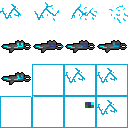
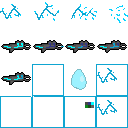
Make enemies be more scared (sweat particles)

Changed region(s): [[0.5, 0.5, 0.75, 0.75]]

diff --git a/Scripts/Particles/ParticleEmitter.cs b/Scripts/Particles/ParticleEmitter.cs
@@ -8,9 +8,11 @@ namespace Monogame_Cross_Platform.Scripts.Particles
 {
     internal class ParticleEmitter
     {
-        Vector2 position;
-        float particleVelocity;
+        public Vector2 position { get; set; }
+        public float particlexVelocity;
+        public float particleyVelocity;
         float particleAngle;
+        internal float drawRotation;
         float particleScale;
         float lifetime;
         ushort textureIndex;
@@ -18,52 +20,70 @@ namespace Monogame_Cross_Platform.Scripts.Particles
         double lastTimeShot;
         Random random;
         double expiryTime;
-        private float xAcceleration;
-        private float yAcceleration;
+        public float xAcceleration;
+        public float yAcceleration;
+        bool rotatesParticle;
 
+        public bool isEnabled = false;
         float spread;
 
         public void Update()
         {
-            if (!(Game1.gameTime.TotalGameTime.TotalSeconds > expiryTime))
+            if (!(Game1.gameTime.TotalGameTime.TotalSeconds > expiryTime) && isEnabled)
             {
                 int timesToFire = (int)((Game1.gameTime.TotalGameTime.TotalSeconds - lastTimeShot) / frequency);
                 if (timesToFire > 0)
                 {
                     for (int i = 0; i < timesToFire; i++)
                     {
-                        float angle = particleAngle + (random.NextSingle() - 0.5f) * spread / 57.295f; //converts radians to degrees and halves
-                        Game1.activeParticles.Add(new Particle(position, particleVelocity, angle, particleScale, textureIndex, lifetime, xAcceleration, yAcceleration));
+                        float randomVal = (random.NextSingle() - 0.5f) * spread / 57.295f;
+                        float angle = particleAngle + randomVal; //converts radians to degrees and halves
+                        float rngXVelocity = particlexVelocity + randomVal * 10;
+                        float rngYVelocity = particleyVelocity + randomVal * 10;
+                        Game1.activeParticles.Add(new Particle(position, rngXVelocity, rngYVelocity, angle, particleScale, textureIndex, lifetime, xAcceleration, yAcceleration, drawRotation, rotatesParticle));
                     }
                     lastTimeShot = Game1.gameTime.TotalGameTime.TotalSeconds;
                 }
             }
-            else
+            else if (Game1.gameTime.TotalGameTime.TotalSeconds > expiryTime)
             {
                 Destroy();
             }
-            
+            else
+                lastTimeShot = Game1.gameTime.TotalGameTime.TotalSeconds;
+
         }
         public void Destroy()
         {
             Game1.activeParticleEmitters.Remove(this);
         }
 
-        public ParticleEmitter(Vector2 position, float velocity, float angle, float scale, ushort textureIndex, float lifetime, float frequency, float emitterDuration, float spread, float xAccel, float yAccel) 
+        public ParticleEmitter(Vector2 position, float velocity, float angle, float scale, ushort textureIndex, float lifetime, float frequency, float emitterDuration, float spread, float xAccel, float yAccel, float drawRotation, bool rotatesParticle) 
         { 
             this.position = position;
-            particleVelocity = velocity;
+            particlexVelocity = (float)Math.Cos(angle) * velocity;
+            particleyVelocity = (float)Math.Sin(angle) * velocity;
             particleAngle = angle;
             particleScale = scale;
             this.lifetime = lifetime;
             this.textureIndex = textureIndex;
             this.frequency = frequency;
-            expiryTime = Game1.gameTime.TotalGameTime.TotalSeconds + emitterDuration;
-            lastTimeShot = Game1.gameTime.TotalGameTime.TotalSeconds;
+            this.drawRotation = drawRotation;
+            this.rotatesParticle = rotatesParticle;
+            if (Game1.gameTime != null)
+            {
+                expiryTime = Game1.gameTime.TotalGameTime.TotalSeconds + emitterDuration;
+                lastTimeShot = Game1.gameTime.TotalGameTime.TotalSeconds;
+            }
+            else
+                expiryTime = emitterDuration;
+                
             random = new Random();
             this.spread = spread;
             yAcceleration = yAccel;
             xAcceleration = xAccel;
+            if (!Game1.activeParticleEmitters.Contains(this))
+                Game1.activeParticleEmitters.Add(this);
         }
     }
 }

diff --git a/Scripts/GameObjects/Entities/Entity.cs b/Scripts/GameObjects/Entities/Entity.cs
@@ -23,14 +23,15 @@ namespace Monogame_Cross_Platform.Scripts.GameObjects.Entities
 
         internal float movingSpeed;
         internal bool isMoving = false;
+        internal bool isScared = false;
 
         internal EntityMovement entityMovement;
         internal Hitbox hitBox;
         internal Weapon activeWeapon;
         internal EntityMovement.AIType aiType;
 
+        internal ParticleEmitter sweatParticles;
 
-        
         public Entity(float entitySpeed, Vector2 startingTile, ushort animationIndex, Hitbox hitBox, EntityMovement.AIType aiType, int health) : base(animationIndex, startingTile)
         {
             this.entitySpeed = entitySpeed;
@@ -39,8 +40,9 @@ namespace Monogame_Cross_Platform.Scripts.GameObjects.Entities
             this.aiType = aiType;
             this.health = health;
             maxHealth = health;
+            sweatParticles = new ParticleEmitter(Vector2.One, 40, 180, 0.5f, 58, 0.4f, 0.2f, float.PositiveInfinity, 90, 0, 80, 0, true);
         }
-        public void Destroy()
+        public override void Destroy()
         {
             isEnabled = false;
             for (int x = -1; x < 2; x++)
@@ -51,6 +53,7 @@ namespace Monogame_Cross_Platform.Scripts.GameObjects.Entities
             if (activeWeapon != null)
                 activeWeapon.Drop(position);
             Game1.currentGameObjects.Remove(this);
+            sweatParticles.Destroy();
         }
         public virtual void Update(Player.Player player)
         {
@@ -106,7 +109,7 @@ namespace Monogame_Cross_Platform.Scripts.GameObjects.Entities
         {
             if (!isInComboMode)
             {
-                Vector2 entityNewPos = entityMovement.GetNormalPathfindingMovement(activeWeapon.attackRange, position, entitySpeed, aiType, playerToFollow);
+                (isScared, Vector2 entityNewPos) = entityMovement.GetNormalPathfindingMovement(activeWeapon.attackRange, position, entitySpeed, aiType, playerToFollow);
                 hitBox.UpdatePosition(entityNewPos.X, entityNewPos.Y);
 
                 activeWeapon.Update(playerToFollow.position, position);
@@ -117,6 +120,15 @@ namespace Monogame_Cross_Platform.Scripts.GameObjects.Entities
                 else
                     isFlipped = false;
                 
+                sweatParticles.position = position;
+                sweatParticles.particlexVelocity = (entityNewPos - position).X * (float)Game1.gameTime.ElapsedGameTime.TotalSeconds * 1000;
+                if (isScared)
+                {
+                    sweatParticles.isEnabled = true;
+                }
+                else
+                    sweatParticles.isEnabled = false;
+
                 //checks if moving for animations
                 movingSpeed = (Math.Abs(entityNewPos.X - position.X) + Math.Abs(entityNewPos.Y - position.Y)) * Game1.gameTime.ElapsedGameTime.Milliseconds;
                 (int playerTileX, int playerTileY) = TileMap.PosToAbsTileMapPos(playerToFollow.position);

diff --git a/Scripts/GameObjects/Entities/DrawThings.cs b/Scripts/GameObjects/Entities/DrawThings.cs
@@ -29,11 +29,7 @@ namespace Monogame_Cross_Platform.Scripts.GameObjects.Entities
             (Texture2D texture, Rectangle rectangle) = ContentLoader.GetLoadedTileTexture(entity.textureIndex);
             spriteBatch.Draw(texture, entity.position, rectangle, Color.White, 0f, new Vector2(rectangle.Width / 2, rectangle.Height / 2), Vector2.One, spriteEffect, 0.03f);
 
-            //(Texture2D weaponTexture, Rectangle weaponRectangle) = ContentLoader.GetLoadedTileTexture(entity.activeWeapon.textureIndex);
-            //if (entity.activeWeapon.rotation > 1.573 || entity.activeWeapon.rotation < -1.573)
-            //    spriteBatch.Draw(weaponTexture, entity.activeWeapon.position, weaponRectangle, Color.White, entity.activeWeapon.rotation, new Vector2(weaponRectangle.Width / 2, weaponRectangle.Height / 2), Vector2.One, SpriteEffects.FlipVertically, 0.02f);
-            //else
-            //    spriteBatch.Draw(weaponTexture, entity.activeWeapon.position, weaponRectangle, Color.White, entity.activeWeapon.rotation, new Vector2(weaponRectangle.Width / 2, weaponRectangle.Height / 2), Vector2.One, SpriteEffects.None, 0.02f);
+            
         }
         public void AddToDrawBuffer(Tile tile, int tileMapX, int tileMapY)
         {
@@ -80,7 +76,7 @@ namespace Monogame_Cross_Platform.Scripts.GameObjects.Entities
             foreach(Particle particle in particleList)
             {
                 (Texture2D texture, Rectangle rectangle) = ContentLoader.GetLoadedTileTexture(particle.textureIndex);
-                spriteBatch.Draw(texture, particle.position, rectangle, Color.White, particle.rotation, new Vector2(rectangle.Width / 2, rectangle.Height / 2), particle.scale, SpriteEffects.None, 0.02f);
+                spriteBatch.Draw(texture, particle.position, rectangle, Color.White, particle.rotation, new Vector2(rectangle.Width / 2, rectangle.Height / 2), particle.scale, SpriteEffects.None, 0.01f);
             }
         }
         public void AddToDrawBuffer(List<GameObject> gameObjectList)

diff --git a/Scripts/Particles/Particle.cs b/Scripts/Particles/Particle.cs
@@ -18,10 +18,11 @@ namespace Monogame_Cross_Platform.Scripts.Particles
         private double timeWhenCreated;
         private float xAcceleration;
         private float yAcceleration;
-        public Particle(Vector2 position, float velocity, float rotation, float scale, ushort textureIndex, float lifetime, float xAcceleration, float yAcceleration)
+        bool rotatesParticle;
+        public Particle(Vector2 position, float xvelocity, float yvelocity, float rotation, float scale, ushort textureIndex, float lifetime, float xAcceleration, float yAcceleration, float drawRotation, bool rotatesParticle)
         {
             this.position = position;
-            this.rotation = rotation;
+            this.rotation = drawRotation;
             this.scale = scale;
             this.lifetime = lifetime;
             this.textureIndex = textureIndex;
@@ -29,8 +30,9 @@ namespace Monogame_Cross_Platform.Scripts.Particles
             Game1.activeParticles.Add(this);
             this.xAcceleration = xAcceleration;
             this.yAcceleration = yAcceleration;
-            xVelocity = (float)Math.Cos(rotation) * velocity;
-            yVelocity = (float)Math.Sin(rotation) * velocity;
+            xVelocity = xvelocity;
+            yVelocity = yvelocity;
+            this.rotatesParticle = rotatesParticle;
         }
         public void Destroy()
         {
@@ -43,6 +45,11 @@ namespace Monogame_Cross_Platform.Scripts.Particles
             yVelocity += elapsedTime * yAcceleration; 
             position.X += elapsedTime * xVelocity;
             position.Y += elapsedTime * yVelocity;
+            if (rotatesParticle)
+            {
+                rotation = (float)Math.Atan2(yVelocity, xVelocity) - 1.5708f;
+            }
+
             if (Game1.gameTime.TotalGameTime.TotalSeconds > lifetime + timeWhenCreated)
                 Destroy();
         }

diff --git a/Scripts/GameObjects/Entities/EntityMovement.cs b/Scripts/GameObjects/Entities/EntityMovement.cs
@@ -108,13 +108,16 @@ namespace Monogame_Cross_Platform.Scripts.GameObjects.Entities
         /// <summary>
         /// Pathfinds to a player
         /// </summary>
-        public Vector2 GetNormalPathfindingMovement(int attackRange, Vector2 currentPos, float speed, AIType aiType, Player.Player playerToPathFindTo)
+        public (bool isScared, Vector2 newPos) GetNormalPathfindingMovement(int attackRange, Vector2 currentPos, float speed, AIType aiType, Player.Player playerToPathFindTo)
         {
 
             (float playerTileX, float playerTileY) = TileMap.PosToTileMapPos(playerToPathFindTo.position);
             (float entityTileX, float entityTileY) = TileMap.PosToTileMapPos(currentPos);
             float distanceBetween = DistanceBetween(new Vector2(playerTileX, playerTileY), new Vector2(entityTileX, entityTileY));
+            bool isScared = false;
 
+            if (distanceBetween <= attackRange - 0.2)
+                isScared = true;
 
             if (distanceBetween >= attackRange + 1 || distanceBetween <= attackRange - 0.2 || TileMap.DoesRaycastCollide(playerTileX, playerTileY, entityTileX, entityTileY, 30, 30))
             {
@@ -156,7 +159,7 @@ namespace Monogame_Cross_Platform.Scripts.GameObjects.Entities
 
                 }
             } 
-            return currentPos;  
+            return (isScared, currentPos);  
         }
 
         private List<(int, int)> GetTileMapPointsToTravel(int attackRange, Vector2 currentPos, AIType aiType, Player.Player player)

diff --git a/Scripts/Particles/AnimatedParticle.cs b/Scripts/Particles/AnimatedParticle.cs
@@ -16,7 +16,7 @@ namespace Monogame_Cross_Platform.Scripts.Particles
             base.Update();
         }
 
-        public AnimatedParticle(Vector2 position, float velocity, float rotation, float scale, float speed, ushort animationIndex, float lifetime, float xAcceleration, float yAcceleration) : base(position, velocity, rotation, scale, 0, lifetime, xAcceleration, yAcceleration)
+        public AnimatedParticle(Vector2 position, float xvelocity, float yvelocity, float rotation, float scale, float speed, ushort animationIndex, float lifetime, float xAcceleration, float yAcceleration, float drawRotation, bool rotatesParticle) : base(position, xvelocity, yvelocity, rotation, scale, 0, lifetime, xAcceleration, yAcceleration, drawRotation, rotatesParticle)
         {
             animationHandler = new AnimationHandler(animationIndex);
         }

diff --git a/Scripts/GameObjects/Weapons/Projectile.cs b/Scripts/GameObjects/Weapons/Projectile.cs
@@ -124,7 +124,7 @@ namespace Monogame_Cross_Platform.Scripts.GameObjects.Weapons
             base.Destroy();
             if (weaponType == "ranged" || weaponType == "melee" || isReplica) 
             {
-                Game1.activeParticleEmitters.Add(new ParticleEmitter(position, 80, travelAngle, 0.5f, 5, 3f, 0.05f, 1f, 360, 0, 50f));
+                //Game1.activeParticleEmitters.Add(new ParticleEmitter(position, 80, travelAngle, 0.5f, 5, 3f, 0.05f, 1f, 360, 0, 50f));
                 if (isPlayer)
                     Game1.activePlayerProjectiles.Remove(this);
                 else

diff --git a/Scripts/GameObjects/Entities/Player/Player.cs b/Scripts/GameObjects/Entities/Player/Player.cs
@@ -27,6 +27,7 @@ namespace Monogame_Cross_Platform.Scripts.GameObjects.Entities.Player
             weapons.Add(new Weapon(1, this));
             weapons.Add(new Weapon(2, this));
             weapons.Add(new Weapon(3, this));
+            sweatParticles.isEnabled = false;
         }
 
         double timeWheninteracted = 0;
